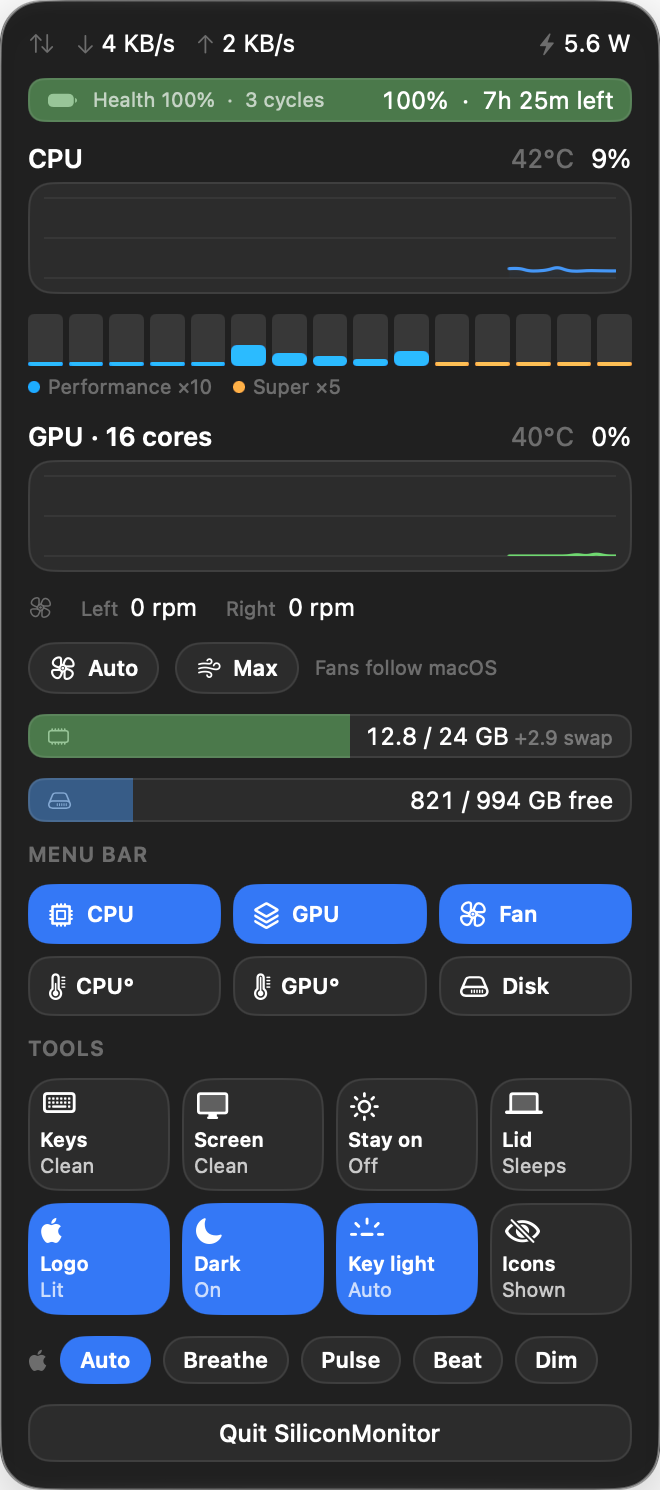
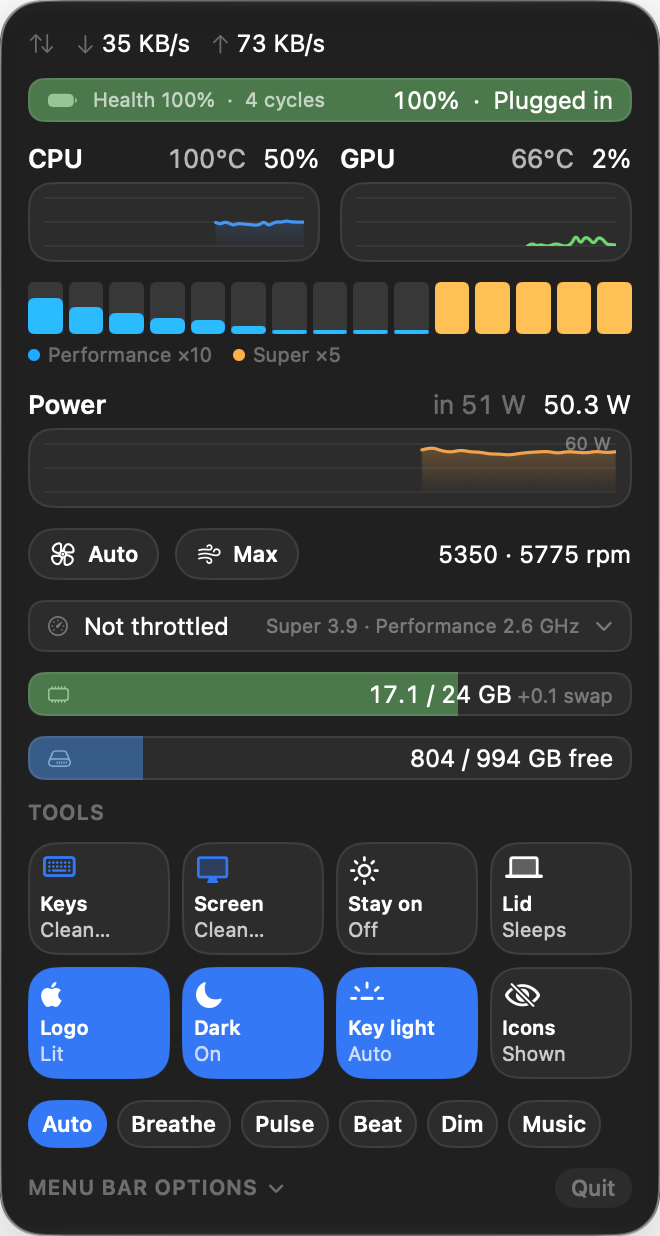
Tighten the card layout: shorter, calmer, less to scan
- Show CPU and GPU graphs side by side and cut graph height to 40pt
- Fold fan rpm into the Auto/Max row (the Left/Right row only appears in Manual)
- Tint the Keys and Screen icons so one-shot actions read differently from toggles
- Brighten temperatures so they stay readable next to the percentage
- Collapse the menu bar toggles with a fade and slide that the card resize follows
- Turn Quit into a small footer capsule
- Explain the core bars in a tooltip
- Refresh the README screenshot

diff --git a/Sources/SiliconMonitor/SiliconMonitorApp.swift b/Sources/SiliconMonitor/SiliconMonitorApp.swift
@@ -351,6 +351,7 @@ struct Tile: View {
     let isOn: Bool
     var disabled = false
     var inline = false    // slim pill with the icon beside the label, for toggles that only need a name
+    var isAction = false  // a one-shot action rather than an on/off toggle: the icon is tinted so it reads as "do this"
     var compact = true   // shorter tile with tighter padding and text (false gives the roomier original size)
     let action: () -> Void
 
@@ -368,6 +369,7 @@ struct Tile: View {
                 } else {
                     VStack(alignment: .leading, spacing: 0) {
                         Image(systemName: icon).font(.system(size: compact ? 13 : 14, weight: .semibold))
+                            .foregroundStyle(isAction && !isOn ? Color.accentColor : (isOn ? Color.white : Color.primary))
                         Spacer(minLength: compact ? 2 : 6)
                         Text(title).font(.system(size: compact ? 10 : 11, weight: .semibold)).lineLimit(1).minimumScaleFactor(0.8)
                         if subtitle != "" {
@@ -403,6 +405,7 @@ struct ContentView: View {
     @EnvironmentObject var u: UpdateChecker
     @EnvironmentObject var th: ThrottleMonitor
     let onQuit: () -> Void
+    @AppStorage("menuBarOptionsOpen") private var menuBarOpen = false
 
     private let five = Array(repeating: GridItem(.flexible(), spacing: 6), count: 3)   // menu bar toggles are slim pills, three per row
     private let four = Array(repeating: GridItem(.flexible(), spacing: 6), count: 4)
@@ -423,12 +426,14 @@ struct ContentView: View {
             }
             networkSection
             batterySection
-            graph("CPU", value: m.cpu, temp: m.cpuTemp, history: m.cpuHistory, color: .blue)
+            HStack(alignment: .top, spacing: 10) {   // side by side: the two graphs share one row
+                graph("CPU", value: m.cpu, temp: m.cpuTemp, history: m.cpuHistory, color: .blue)
+                graph("GPU", value: m.gpu, temp: m.gpuTemp, history: m.gpuHistory, color: .green)
+                    .help(String(format: "%d GPU cores. Render %.0f%%  Tiler %.0f%%", m.gpuCoreCount, m.gpuRenderer, m.gpuTiler))
+            }
             coreBars
-            graph("GPU · \(m.gpuCoreCount) cores", value: m.gpu, temp: m.gpuTemp, history: m.gpuHistory, color: .green)
-                .help(String(format: "Render %.0f%%  Tiler %.0f%%", m.gpuRenderer, m.gpuTiler))
             powerSection
-            fansSection
+            if f.manual || !m.smcAvailable || m.fans.isEmpty { fansSection }   // in Auto the rpm shows in the control row
             fanControlRow
             throttleSection
             memorySection
@@ -436,11 +441,11 @@ struct ContentView: View {
 
             section("Tools") {
                 LazyVGrid(columns: four, spacing: 6) {   // four per row; more tools wrap onto further rows
-                    Tile(icon: "keyboard", title: "Keys", subtitle: c.keyboardLocked ? "Locked" : "Clean", isOn: c.keyboardLocked) {
+                    Tile(icon: "keyboard", title: "Keys", subtitle: c.keyboardLocked ? "Locked" : "Clean…", isOn: c.keyboardLocked, isAction: true) {
                         c.setKeyboardLocked(!c.keyboardLocked)
                     }
                     .help("Keyboard cleaning: locks all keys for up to 5 minutes")
-                    Tile(icon: "display", title: "Screen", subtitle: c.screenCleaning ? "Black" : "Clean", isOn: c.screenCleaning) {
+                    Tile(icon: "display", title: "Screen", subtitle: c.screenCleaning ? "Black" : "Clean…", isOn: c.screenCleaning, isAction: true) {
                         c.setScreenCleaning(!c.screenCleaning)
                     }
                     .help("Screen cleaning: blacks out the screen for up to 2 minutes (Esc exits)")
@@ -480,42 +485,46 @@ struct ContentView: View {
             }
             .animation(anim, value: [l.available && l.isOn, c.permissionMessage != nil, p.lidAwake, p.lastError != nil])
 
-            VStack(alignment: .leading, spacing: 8) {
-                Button(action: { m.menuBarOptionsOpen.toggle() }) {
+            if menuBarOpen {
+            section("Menu bar") {
+                LazyVGrid(columns: five, spacing: 6) {
+                    Tile(icon: "cpu", title: "CPU", subtitle: "", isOn: m.showCPU, inline: true) { m.showCPU.toggle() }
+                    Tile(icon: "square.stack.3d.up", title: "GPU", subtitle: "", isOn: m.showGPU, inline: true) { m.showGPU.toggle() }
+                    Tile(icon: "fan", title: "Fan", subtitle: "", isOn: m.showFan, inline: true) { m.showFan.toggle() }
+                    Tile(icon: "thermometer.medium", title: "CPU°", subtitle: "", isOn: m.showCPUTemp, inline: true) { m.showCPUTemp.toggle() }
+                    Tile(icon: "thermometer.high", title: "GPU°", subtitle: "", isOn: m.showGPUTemp, inline: true) { m.showGPUTemp.toggle() }
+                    Tile(icon: "internaldrive", title: "Disk", subtitle: "", isOn: m.showDisk, inline: true) { m.showDisk.toggle() }
+                }
+            }
+            .transition(appear)
+            }
+
+            // Footer: the set-once menu bar choices fold away; Quit is a quiet capsule, not a full-width button.
+            HStack {
+                Button(action: { menuBarOpen.toggle() }) {
                     HStack(spacing: 4) {
                         Text("MENU BAR OPTIONS").font(.system(size: 10.5, weight: .semibold)).tracking(0.4)
                         Image(systemName: "chevron.down").font(.system(size: 8, weight: .bold))
-                            .rotationEffect(.degrees(m.menuBarOptionsOpen ? 180 : 0))
-                        Spacer(minLength: 0)
+                            .rotationEffect(.degrees(menuBarOpen ? 180 : 0))
                     }
                     .foregroundStyle(.secondary)
                     .contentShape(Rectangle())
                 }
                 .buttonStyle(.plain)
                 .help("Choose what appears in the menu bar")
-                if m.menuBarOptionsOpen {
-                    LazyVGrid(columns: five, spacing: 6) {
-                        Tile(icon: "cpu", title: "CPU", subtitle: "", isOn: m.showCPU, inline: true) { m.showCPU.toggle() }
-                        Tile(icon: "square.stack.3d.up", title: "GPU", subtitle: "", isOn: m.showGPU, inline: true) { m.showGPU.toggle() }
-                        Tile(icon: "fan", title: "Fan", subtitle: "", isOn: m.showFan, inline: true) { m.showFan.toggle() }
-                        Tile(icon: "thermometer.medium", title: "CPU°", subtitle: "", isOn: m.showCPUTemp, inline: true) { m.showCPUTemp.toggle() }
-                        Tile(icon: "thermometer.high", title: "GPU°", subtitle: "", isOn: m.showGPUTemp, inline: true) { m.showGPUTemp.toggle() }
-                        Tile(icon: "internaldrive", title: "Disk", subtitle: "", isOn: m.showDisk, inline: true) { m.showDisk.toggle() }
-                    }
-                    .transition(appear)
+                Spacer()
+                Button(action: onQuit) {
+                    Text("Quit").font(.system(size: 11, weight: .medium)).foregroundStyle(.secondary)
+                        .padding(.horizontal, 8).padding(.vertical, 3)
+                        .background(Capsule(style: .continuous).fill(Theme.subtleFill))
+                        .contentShape(Capsule())
                 }
+                .buttonStyle(.plain)
+                .keyboardShortcut("q")
+                .help("Quit SiliconMonitor (⌘Q)")
             }
-            .animation(anim, value: m.menuBarOptionsOpen)
-
-            Button(action: onQuit) {
-                Text("Quit SiliconMonitor").font(.system(size: 12, weight: .medium))
-                    .frame(maxWidth: .infinity).padding(.vertical, 7)
-                    .background(RoundedRectangle(cornerRadius: 11, style: .continuous).fill(Theme.subtleFill))
-                    .overlay(RoundedRectangle(cornerRadius: 11, style: .continuous).strokeBorder(Theme.hairline))
-            }
-            .buttonStyle(.plain)
-            .keyboardShortcut("q")
         }
+        .animation(anim, value: menuBarOpen)   // on the whole stack, so the section fades in while the card grows
         .padding(14)
         .frame(width: CardStyle.width)
     }
@@ -696,7 +705,7 @@ struct ContentView: View {
                     Text(String(format: "%.1f W", w)).monospacedDigit()
                 }
                 HistoryGraph(values: m.powerHistory.map { $0 / top * 100 }, capacity: Monitor.maxHistory, lastSample: m.lastSample, color: .orange)
-                    .frame(height: 56)
+                    .frame(height: 40)
                     .background(RoundedRectangle(cornerRadius: 12, style: .continuous).fill(Theme.subtleFill))
                     .overlay(alignment: .topTrailing) {
                         Text(String(format: "%.0f W", top)).font(.system(size: 9)).foregroundStyle(.secondary).padding(.trailing, 10).padding(.top, 2)
@@ -764,8 +773,10 @@ struct ContentView: View {
                     Slider(value: $f.percent, in: 0...100).frame(minWidth: 50).transition(.opacity)
                     Text(targetLabel).font(.caption).monospacedDigit().lineLimit(1).fixedSize().transition(.opacity)
                 } else {
-                    Text("Fans follow macOS").font(.caption).foregroundStyle(.secondary).transition(.opacity)
-                    Spacer()
+                    Spacer(minLength: 0)
+                    Text(m.fans.isEmpty ? "Fans follow macOS" : m.fans.map { String(format: "%.0f", $0.rpm) }.joined(separator: " · ") + " rpm")
+                        .font(.callout).monospacedDigit().lineLimit(1).transition(.opacity)
+                        .help("Fan speeds. Fans follow macOS.")
                 }
             }
             if let msg = f.message { note(msg, .orange).transition(appear) }
@@ -864,6 +875,7 @@ struct ContentView: View {
                 legend(.blue, "\(m.lowTierName) ×\(m.lowTierCount)")
                 legend(.orange, "\(m.topTierName) ×\(m.topTierCount)")
             }
+            .help("One bar per core, showing its load. \(m.lowTierName) cores are blue, \(m.topTierName) cores are orange.")
         }
     }
 
@@ -881,11 +893,11 @@ struct ContentView: View {
             HStack {
                 Text(name).font(.system(size: 13, weight: .semibold))
                 Spacer()
-                if let t = temp { Text(String(format: "%.0f°C", t)).monospacedDigit().foregroundStyle(.secondary) }
+                if let t = temp { Text(String(format: "%.0f°C", t)).monospacedDigit().foregroundStyle(Color.primary.opacity(0.75)) }
                 Text(String(format: "%.0f%%", value)).monospacedDigit()
             }
             HistoryGraph(values: history, capacity: Monitor.maxHistory, lastSample: m.lastSample, color: color)
-                .frame(height: 56)
+                .frame(height: 40)
                 .background(RoundedRectangle(cornerRadius: 12, style: .continuous).fill(Theme.subtleFill))
                 .overlay(RoundedRectangle(cornerRadius: 12, style: .continuous).strokeBorder(Theme.hairline))
         }
